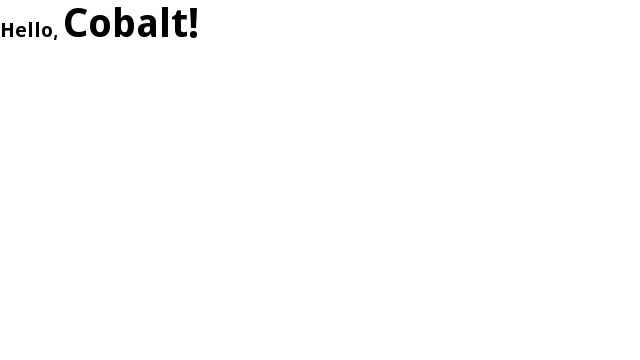
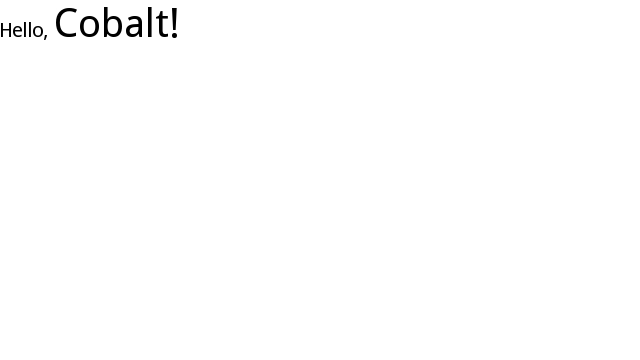
Update layout_tests and rasterizer tests data
1. Remove font-weight setting from layout_tests and add a special
   font-weight test.
2. Update rasterizer test expected pictures due to the fix the
   font-weight.

b/19518698

Changed region(s): [[0.0, 0.0, 0.3125, 0.1222]]

diff --git a/cobalt/layout_tests/testdata/cobalt/font-weight.html b/cobalt/layout_tests/testdata/cobalt/font-weight.html
@@ -1,0 +1,17 @@
+<!DOCTYPE html>
+<html>
+<head>
+  <style>
+    .normal-class {
+      font-weight: normal;
+    }
+    .bold-class {
+      font-weight: bold;
+    }
+  </style>
+</head>
+<body>
+  <div class="normal-class">Normal font weight.</div>
+  <div class="bold-class">Bold font weight.</div>
+</body>
+</html>

diff --git a/cobalt/layout_tests/testdata/cobalt/relative-font-size.html b/cobalt/layout_tests/testdata/cobalt/relative-font-size.html
@@ -6,7 +6,6 @@
     body {
       font-family: "Droid Sans";
       font-size: 20px;
-      font-weight: bold;
     }
 
     span {

diff --git a/cobalt/layout_tests/testdata/cobalt/user-agent-style-sheet-display.html b/cobalt/layout_tests/testdata/cobalt/user-agent-style-sheet-display.html
@@ -4,7 +4,6 @@
   <style>
     body {
       font-family: "Droid Sans";
-      font-weight: bold;
     }
   </style>
 </head>

diff --git a/cobalt/layout_tests/testdata/cobalt/block-and-inline-block-display.html b/cobalt/layout_tests/testdata/cobalt/block-and-inline-block-display.html
@@ -4,7 +4,6 @@
   <style>
     body {
       font-family: "Droid Sans";
-      font-weight: bold;
     }
 
     div {

diff --git a/cobalt/layout_tests/testdata/cobalt/divs-with-background-color-and-text.html b/cobalt/layout_tests/testdata/cobalt/divs-with-background-color-and-text.html
@@ -4,7 +4,6 @@
   <style>
     body {
       font-family: "Droid Sans";
-      font-weight: bold;
     }
 
     div {

diff --git a/cobalt/layout_tests/testdata/cobalt/simple-transform-text.html b/cobalt/layout_tests/testdata/cobalt/simple-transform-text.html
@@ -4,7 +4,6 @@
   <style>
     body {
       font-family: "Droid Sans";
-      font-weight: bold;
     }
 
     div {
